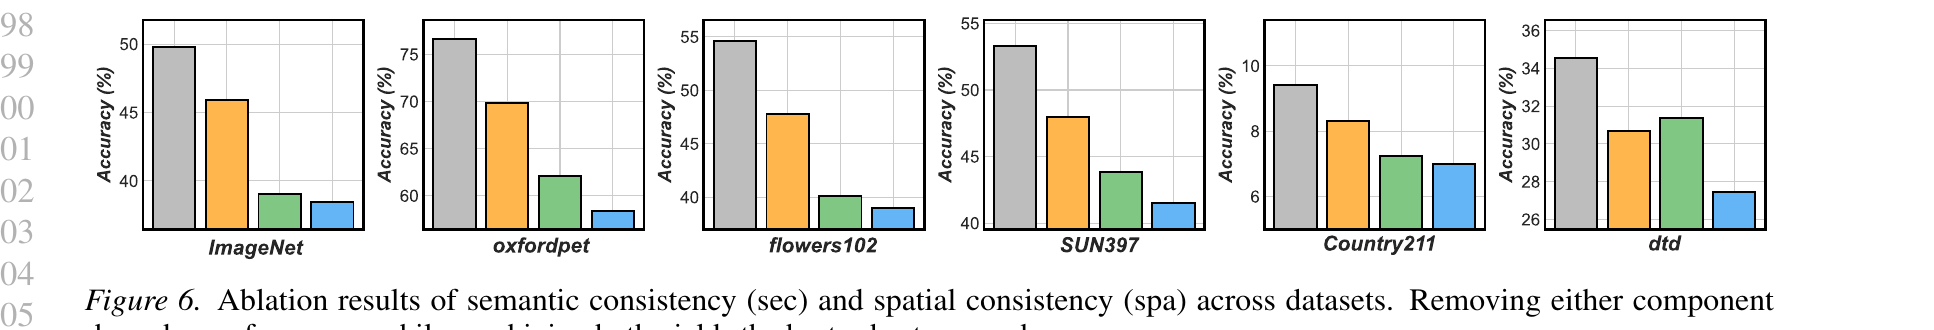
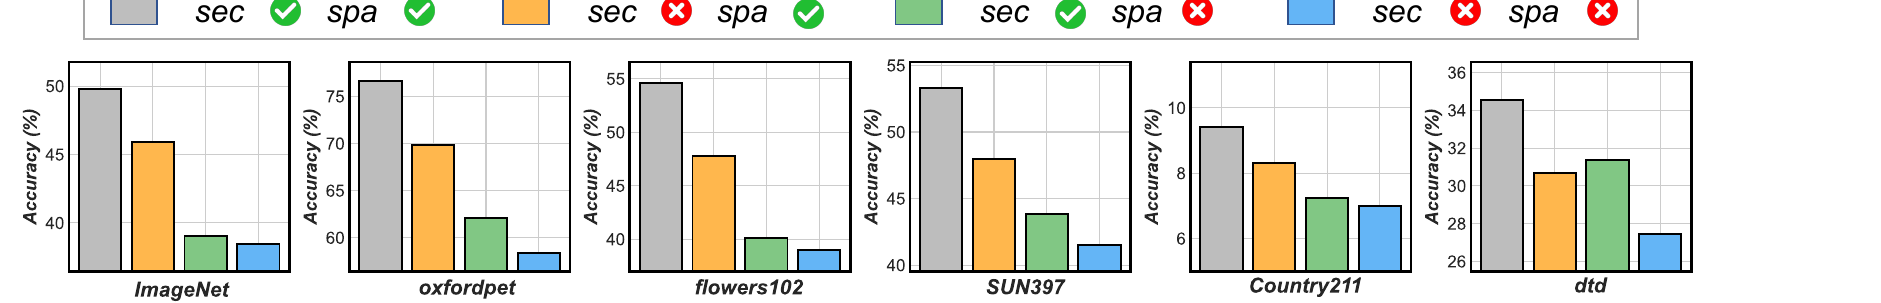
Fix figure crops; add original captions on the page
- fig1: shift down to capture the full conceptual diagram (was cutting off
  most of the figure and showing title fragments instead)
- method: extend bottom to include the (a)/(b)/(c) panel labels and
  Adversarial example / Backbone labels; tighten left to exclude line
  numbers and page header bar
- ablation: tighten left to exclude paper line numbers and tighten bottom
  to exclude the paper's "Figure 6." caption text

Add page-side captions (written from scratch, not copied from the paper)
under each of the three figures.

diff --git a/index.html b/index.html
@@ -96,7 +96,10 @@
 <section class="hero teaser">
   <div class="container is-max-desktop">
     <div class="hero-body">
-      <img src="./static/images/fig1.png" alt="SCC teaser" style="width: 100%; max-width: 760px; margin: 0 auto; display: block;"/>
+      <img src="./static/images/fig1.png" alt="SCC concept" style="width: 100%; max-width: 760px; margin: 0 auto; display: block;"/>
+      <p class="has-text-centered" style="margin-top: 0.8rem; color:#555; font-size: 0.95em; max-width: 760px; margin-left:auto; margin-right:auto;">
+        Left: under adversarial counterattack, an embedding drifts toward hard-negative classes (e.g. Dog → Wolf). Right: <b>SCC</b> uses <span style="color:#d62728;">semantic consistency</span> and <span style="color:#1f77b4;">spatial consistency</span> together to pull it back into the correct class region.
+      </p>
     </div>
   </div>
 </section>
@@ -129,7 +132,10 @@
     <h2 class="title is-3 has-text-centered">Method</h2>
     <div class="columns is-centered">
       <div class="column">
-        <img src="./static/images/method.png" alt="SCC method" style="width: 100%; max-width: 1000px; margin: 0 auto; display: block;"/>
+        <img src="./static/images/method.png" alt="Test-time defense paradigms" style="width: 100%; max-width: 1000px; margin: 0 auto; display: block;"/>
+        <p class="has-text-centered" style="margin-top: 0.8rem; color:#555; font-size: 0.95em;">
+          Three test-time defenses, side by side. <b>R-TPT</b> updates text prompts online; <b>TTC</b> applies a corrective perturbation to the input; <b>SCC</b> adds a semantic pseudo-label and aggregates several views, giving a stable and accurate recovery.
+        </p>
       </div>
     </div>
   </div>
@@ -271,7 +277,10 @@
 <section class="section" style="background-color:#fafafa;">
   <div class="container is-max-desktop">
     <h2 class="title is-3 has-text-centered">Ablation</h2>
-    <img src="./static/images/ablation.png" alt="Ablation" style="width: 100%; max-width: 1000px; margin: 0 auto; display: block;"/>
+    <img src="./static/images/ablation.png" alt="Ablation across datasets" style="width: 100%; max-width: 1000px; margin: 0 auto; display: block;"/>
+    <p class="has-text-centered" style="margin-top: 0.8rem; color:#555; font-size: 0.95em;">
+      Robust accuracy per dataset for the four combinations of <i>sec</i> (semantic) and <i>spa</i> (spatial) consistency. Turning either module off causes a noticeable drop; turning both off collapses robustness — confirming the two components are complementary, not redundant.
+    </p>
   </div>
 </section>
 